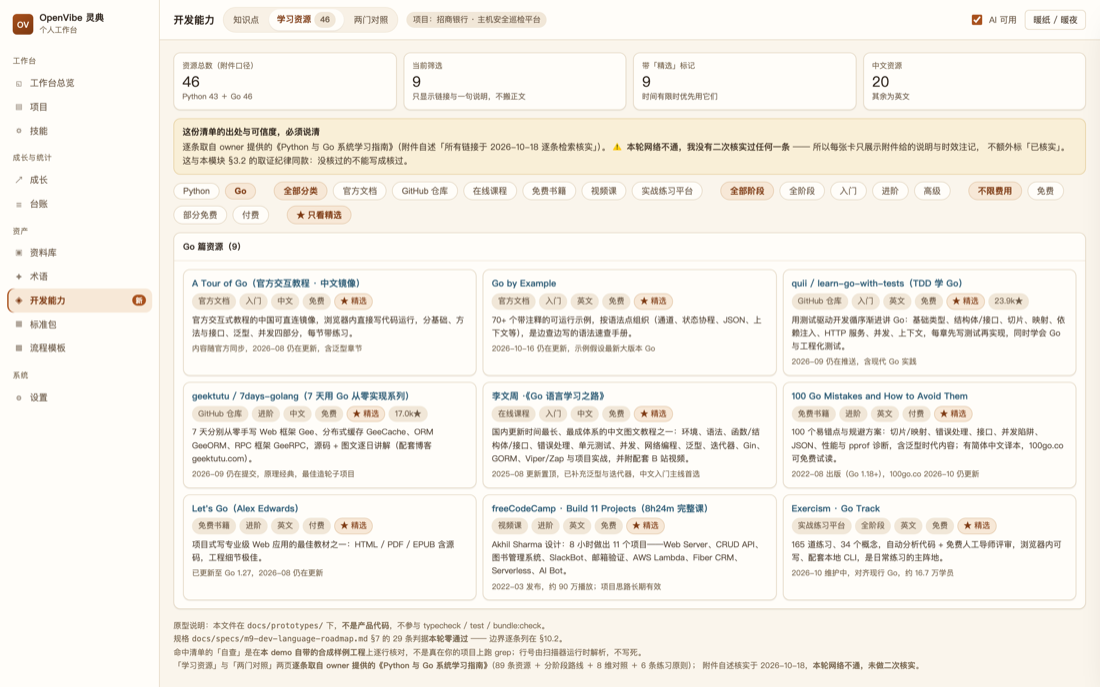
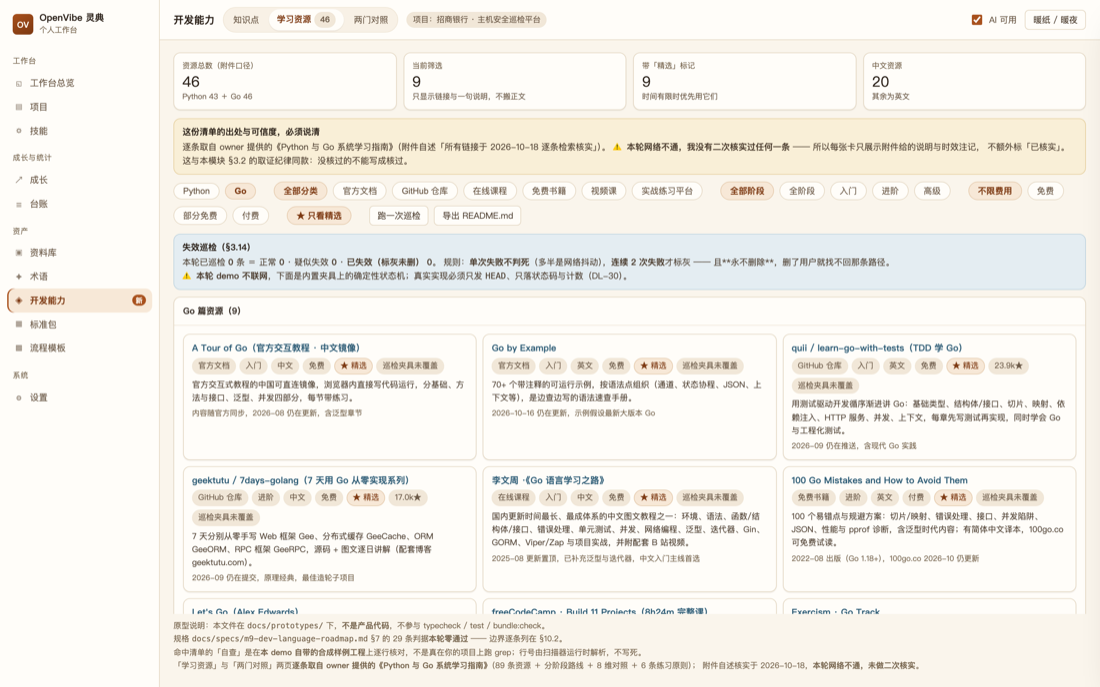
docs(M9): v1.1 采纳三条增强 · 失效巡检 / 资源↔知识点挂接 / 导出 README
规格（v1.0 → v1.1）：

- §3.14 增强⑥ **失效巡检**：「核实过一次」是快照不是结论。`lang_resources` 新增
  `last_status_code` / `consecutive_fails` / `alive` / `last_checked_at`；状态机写死 ——
  成功归零、单次失败只标「疑似」、**连续 2 次失败才标灰且永不删除**（删了用户就找不回路径）。
  巡检**只发 HEAD、只落状态码与计数、不抓正文**；低频手动触发，**不进启动流程**
  （启动时联网会把「打开一个本机工具」变成「等网络」）。
- §3.15 增强⑦ **资源↔知识点显式挂接**：新增第十三张表 `lang_topic_resources`，
  **只有「知识点 → 资源」一个方向** —— 资源反向认领会让 3323 条无序清单定义路线（§1.5 实测）。
  「要点级」条目必须至少有一条可点去处，否则等于让用户自己去搜。
- §3.16 增强⑧ **导出 README.md**：复用既有导出通道，只导链接不导正文；
  每行带可回查的资源号；零本机路径（它会被推到公开仓库）。
- DL-01 扩展范围（`lang_resources` 全表），新增 **DL-30~32**（判据 29 → **32 条**）。
- §9 新增两期 **P1b 资源层＋挂接 / P1c 失效巡检**（人日 20 → **25**）。
- §10.2 逐条登记这三项 demo **不能**证明什么（尤其：demo 不联网 ⇒ 不满足 DL-30）。

原型同步实现三件事，并全部当场可点：

- 详情页「去哪儿补这条」：36 个知识点逐条挂到清单里**真实存在**的资源名
- 资源页「跑一次巡检」：内置夹具上的确定性状态机，跑两轮对照「≥2 次才判死」
- 资源页「导出 README.md」：DL-32 四条自查内建

真机验证（裸 CDP，控制台 0 error / 0 exception）：

- DL-31：要点级条目缺去处 0 条；挂接名悬空 0 条（会挂到不存在的资源是最容易漏的一类）
- DL-30：连败条目 alive=false，单败后恢复的条目 fails 归零、**从未判死**；
  标灰后**池子条数不变（43 → 43）**
- DL-32：导出 89 条 == 清单 89 条、零绝对路径、零行缺资源号
- 降级自检 0 命中

过程中改掉三个**只有真跑才会暴露**的缺陷：

1. `livenessOf()` 每次返回临时对象 ⇒ 巡检计数改了但没人读得到，界面永远显示「未巡检」
2. `runSweep()` 只统计 `justDied` 却**从不把 alive 置 false** ⇒ fails 涨到 4 而界面显示「已失效 0 条」
3. 关闭态抽屉只靠 transform 移屏 ⇒ 文本仍在 DOM，降级自检数到了用户看不到的字
   （顺带修掉一个真 a11y 缺陷：不在场的对话框仍会被读屏读到，现已 aria-hidden + inert）

另：屏摄脚本改为一律显式设状态并在末尾校验指纹 —— 上一版靠「找某个按钮点一下」，
把四张本该不同的图拍成了逐字节相同。本轮 11 张屏摄指纹互不相同。

五闸：typecheck 0 · lint 0 · test 96 文件 / 1109 支全绿 · docs:check error 0 · head-typecheck rc=0

Changed region(s): [[0.1545, 0.3057, 0.9891, 0.917]]

diff --git a/docs/prototypes/开发能力-可交互Demo-20261018.html b/docs/prototypes/开发能力-可交互Demo-20261018.html
@@ -8,7 +8,7 @@
   M9「开发能力」交互原型 · 单文件零依赖 · 2026-10-18
 
   ⚠ 这是原型，不是产品代码：不在 apps/ packages/ 下，不参与 typecheck / test / bundle:check。
-     ⇒ specs/m9-dev-language-roadmap.md §7 的 29 条判据本轮零通过。
+     ⇒ specs/m9-dev-language-roadmap.md §7 的 32 条判据本轮零通过。
      边界逐条列在 §10.2。本文件自己有一条能当场自证的：降级自检按钮（§10.3 第 2 条）。
 
   视觉：内联复制 apps/web/src/index.css 的 29 支颜色 token × 双主题，不新增任何字面色阶。
@@ -459,15 +459,15 @@ textarea.ta {
     </div>
     </div><!-- /view-topics -->
 
-    <div id="view-res" class="view" hidden></div>
-    <div id="view-cmp" class="view" hidden></div>
+    <div id="view-res" class="view" data-catalog hidden></div>
+    <div id="view-cmp" class="view" data-catalog hidden></div>
   </div>
 
   <div class="foot" id="foot"></div>
 </main>
 
 <div class="mask" id="mask"></div>
-<div class="drawer" id="drawer" role="dialog" aria-label="源码解读">
+<div class="drawer" id="drawer" role="dialog" aria-label="源码解读" aria-hidden="true" inert>
   <div class="dh">
     <div class="r1">
       <h2>源码解读</h2>
@@ -1332,6 +1332,174 @@ const GUIDE_PRINCIPLES = [
   ["版本意识，不碰过时资料", "Python 一律 3.12 / 3.13，Go 一律 1.22+；任何只讲 Python 2 或 GOPATH 旧模式的资料直接弃用。"],
 ];
 
+
+/* ═══════════════════════════════════════════════════════════════════════
+   增强⑦ 知识点 → 资源（§3.15）。**只有这一个方向**：资源不反向认领知识点。
+   每条资源名都取自上方 GUIDE_RES 里真实存在的条目 —— 挂一个不存在的名字
+   在 demo 里看不出来，但那正是 DL-31 的判据要抓的东西，故下方 selfCheck 会核。
+   role: primary 主去处 / backup 备选 / practice 练习平台
+   ═══════════════════════════════════════════════════════════════════════ */
+const TOPIC_RES = {
+  'py-variable':       [['Python 官方教程（中文译本）','primary'],['Python for Everybody（py4e）','backup']],
+  'py-collection':     [['Python 官方教程（中文译本）','primary'],['TheAlgorithms / Python（算法实现库）','practice']],
+  'py-function':       [['廖雪峰 · Python 教程','primary'],["Google's Python Class",'backup']],
+  'py-module':         [['廖雪峰 · Python 教程','primary'],['Automate the Boring Stuff with Python（3rd Edition）','backup']],
+  'py-error':          [['Think Python（3rd Edition, 2024）','primary'],['Real Python','backup']],
+  'py-datamodel':      [['Fluent Python（2nd Edition, 2022）','primary'],['Think Python（3rd Edition, 2024）','backup']],
+  'py-polymorphism':   [['Fluent Python（2nd Edition, 2022）','primary'],['Real Python','backup']],
+  'py-concurrency':    [['Fluent Python（2nd Edition, 2022）','primary'],['Real Python','backup']],
+  'py-decorator':      [['廖雪峰 · Python 教程','primary'],['Fluent Python（2nd Edition, 2022）','backup']],
+  'py-generator':      [['Fluent Python（2nd Edition, 2022）','primary'],['Real Python','backup']],
+  'py-context':        [['Think Python（3rd Edition, 2024）','primary'],['Real Python','backup']],
+  'py-typehint':       [['The Python Language Reference（语言参考）','primary'],["What's New in Python 3.13（版本更新说明）",'backup']],
+  'py-comprehension':  [['廖雪峰 · Python 教程','primary'],['The Python Tutorial（官方教程）','backup']],
+  'py-fstring':        [['菜鸟教程 · Python3','primary'],['Python for Everybody（py4e）','backup']],
+  'py-dataclass':      [['Fluent Python（2nd Edition, 2022）','primary'],['The Python Language Reference（语言参考）','backup']],
+  'py-excchain':       [['Think Python（3rd Edition, 2024）','primary'],['Real Python','backup']],
+  'py-web':            [['FastAPI 官方教程','primary'],['Django 官方教程（投票应用 · 7 部分）','backup']],
+  'py-pack':           [['Python Crash Course（3rd Edition, 2022）','primary'],['Automate the Boring Stuff with Python（3rd Edition）','backup']],
+
+  'go-variable':       [['A Tour of Go（官方交互教程 · 中文镜像）','primary'],['李文周 ·《Go 语言学习之路》','backup']],
+  'go-collection':     [['Go by Example','primary'],['The Go Programming Language（英文原版，gopl.io）','backup']],
+  'go-function':       [['A Tour of Go（官方交互教程 · 中文镜像）','primary'],['Go by Example','backup']],
+  'go-module':         [['Go Modules Reference（模块参考）','primary'],['The Go Programming Language（英文原版，gopl.io）','backup']],
+  'go-error':          [['Effective Go','primary'],['100 Go Mistakes and How to Avoid Them','backup']],
+  'go-datamodel':      [['The Go Programming Language（英文原版，gopl.io）','primary'],['Go: Under the Hood（golang.design）','backup']],
+  'go-polymorphism':   [['Effective Go','primary'],['inancgumus / effective-go（现代 Go 风格指南）','backup']],
+  'go-concurrency':    [['Concurrency in Go','primary'],['Go by Example','backup']],
+  'go-defer':          [['A Tour of Go（官方交互教程 · 中文镜像）','primary'],['Go by Example','backup']],
+  'go-goroutine':      [['Concurrency in Go','primary'],["Let's Go（Alex Edwards）",'backup']],
+  'go-slice':          [['Go by Example','primary'],['Go: Under the Hood（golang.design）','backup']],
+  'go-ifacezero':      [['Effective Go','primary'],['inancgumus / effective-go（现代 Go 风格指南）','backup']],
+  'go-structtag':      [['Go by Example','primary'],['pkg.go.dev（标准库与包文档）','backup']],
+  'go-errorwrap':      [['Effective Go','primary'],['100 Go Mistakes and How to Avoid Them','backup']],
+  'go-generic':        [['A Tour of Go（官方交互教程 · 中文镜像）','primary'],['Go Modules Reference（模块参考）','backup']],
+  'go-wg':             [['Concurrency in Go','primary'],['Gophercises（20 个动手小项目）','practice']],
+  'go-http':           [["Let's Go（Alex Edwards）",'primary'],['astaxie / build-web-application-with-golang（Go Web 编程开源书）','backup']],
+  'go-build':          [['Go Modules Reference（模块参考）','primary'],['Go 官方文档中心（中国镜像）','backup']],
+};
+const RES_ROLE_LABEL = { primary: '主去处', backup: '备选', practice: '练习平台' };
+
+function findRes(name) {
+  for (const lk of ['py', 'go']) {
+    const hit = (GUIDE_RES[lk] || []).find(r => r.n === name);
+    if (hit) return hit;
+  }
+  return null;
+}
+/** DL-31：要点级（content_level='point'）的条目必须至少挂一条资源。
+ *  full 级挂 0 条是**允许**的（三段已写满，不需要去处）⇒ 判据必须按 point 过滤。 */
+function pointTopicsWithoutRes(lang) {
+  return langTopics(lang).filter(t => t.level !== 'full' && !(TOPIC_RES[t.id] || []).length).map(t => t.id);
+}
+
+/* ═══════════════════════════════════════════════════════════════════════
+   增强⑥ 失效巡检（§3.14）。⚠ demo **不联网**，下面 probe 序列是内置夹具，
+   不是真实 HTTP 探测结果 —— 真实实现必须用 HEAD（DL-30 的三条之一）。
+   probe[i] = 第 i 次巡检的状态码；跑完末尾值后保持不变。
+   ═══════════════════════════════════════════════════════════════════════ */
+const LIVENESS_FIXTURE = {
+  'wistbean / learn_python3_spider（中文爬虫教程）': { probe: [404, 404, 404] },  // 连败 ⇒ 标灰
+  'Go: Under the Hood（golang.design）':            { probe: [503, 503, 503] },  // 连败 ⇒ 标灰
+  '莫烦 Python · Python 基础':                        { probe: [500, 200, 200] },  // 单败后恢复 ⇒ 永远不判死
+};
+const LIVE = {};   // name -> {round, code, fails, alive, checkedAt}
+function livenessOf(r) {
+  if (LIVE[r.n]) return LIVE[r.n];
+  // ⚠ 必须**存进 LIVE 再返回**：早先直接返回一个临时对象，于是 runSweep 改的是
+  // 一个谁也读不到的副本，巡检跑完计数全是 0 —— 而界面照常显示「未巡检」，看着完全正常。
+  const px = (LIVENESS_FIXTURE[r.n] || {}).probe || null;
+  LIVE[r.n] = { round: 0, code: null, fails: 0, alive: true, checkedAt: null, fixture: !!px };
+  return LIVE[r.n];
+}
+/** 跑一轮巡检。状态机（§3.14 写死）：成功⇒归零；失败累加；连续失败 ≥2 才判死。 */
+function runSweep() {
+  const out = { probed: 0, recovered: 0, justDied: 0 };
+  for (const r of resPool()) {
+    const px = (LIVENESS_FIXTURE[r.n] || {}).probe;
+    if (!px) continue;                     // 夹具里没列的条目：本次「探不到」，保持原状
+    const st = livenessOf(r);
+    const round = st.round;
+    const code = px[Math.min(round, px.length - 1)];
+    st.round = round + 1;
+    st.code = code;
+    st.checkedAt = '10-19';
+    if (code >= 200 && code < 400) {
+      st.fails = 0; st.alive = true;
+      if (round > 0) out.recovered++;
+    } else {
+      st.fails++;
+      // ⚠ 这里必须**真的把 alive 翻成 false** —— 早先只写了 `if (st.fails < 2) st.alive = true`，
+      // 于是 fails 一路涨到 4 而 alive 永远是 true，界面显示「已失效 0 条」却毫无异常。
+      // 那支「变异腿」本该抓住它，但它是界面里的活代码，只能靠真跑状态机抓 —— 这也是它必须能在 demo 里点的原因。
+      const wasAlive = st.alive;
+      st.alive = st.fails < 2;
+      if (wasAlive && !st.alive) out.justDied++;
+    }
+    out.probed++;
+  }
+  return out;
+}
+function deadCount() { return resPool().filter(r => !livenessOf(r).alive).length; }
+function suspectCount() { return resPool().filter(r => livenessOf(r).fails === 1 && livenessOf(r).alive).length; }
+
+/* ═══════════════════════════════════════════════════════════════════════
+   增强⑧ 导出 README.md（§3.16）。三条纪律：只导链接不导正文 · 每行可溯源 ·
+   零本机路径（因为它会被推到公开仓库）。
+   ═══════════════════════════════════════════════════════════════════════ */
+function exportReadme() {
+  const idOf = (langKey, r) => `${langKey === 'py' ? 'PY' : 'GO'}-${GUIDE_RES[langKey].indexOf(r) + 1}`;
+  let md = `# 学习地图 · Python / Go\n\n`
+    + `> 由 OpenVibe「开发能力」导出 · 快照日期 2026-10-19\n`
+    + `> **只含链接与标签，不含任何教程正文**（版权纪律：正文一律不入仓）。\n`
+    + `> 每条前缀 \`[PY-13]\` / \`[GO-24]\` 是可回查的资源号，对应本机 \`lang_resources.id\`。\n`
+    + `> 巡检栏「疑似 / 已失效」按 §3.14 状态机标注，**标灰但未删除** —— 路径留着才找得回。\n\n`;
+  for (const lk of ['py', 'go']) {
+    const pool = GUIDE_RES[lk];
+    md += `## ${lk === 'py' ? 'Python' : 'Go'}（${pool.length} 条）\n\n`;
+    for (const c of Object.keys(GUIDE_RES.cat)) {
+      const items = pool.filter(r => r.cat === c);
+      if (!items.length) continue;
+      md += `### ${GUIDE_RES.cat[c]}（${items.length}）\n\n`;
+      for (const r of items) {
+        const st = livenessOf(r);
+        const tags = [GUIDE_RES.st[r.s], r.l === 'zh' ? '中文' : '英文', GUIDE_RES.cost[r.c] || r.c];
+        if (r.fav) tags.unshift('★精选');
+        if (r.star) tags.push(r.star);
+        tags.push(r.phase_id === undefined ? '' : String(r.phase_id));
+        const live = !st.checkedAt ? '未巡检' : st.alive ? (st.fails ? '疑似失效' : `正常 ${st.code}`) : `已失效 ${st.code}`;
+        md += `- [${idOf(lk, r)}] [${r.n}](${r.u}) \`${tags.filter(Boolean).join('` `')}\` · 巡检：${live}\n`;
+      }
+      md += `\n`;
+    }
+  }
+  return md;
+}
+/** DL-32：导出物的四条 —— 条数一致 · 零绝对路径 · 每行可溯源 · 结构可机判 */
+function checkReadme(md) {
+  const lines = md.split('\n').filter(l => l.startsWith('- ['));
+  const poolN = GUIDE_RES.py.length + GUIDE_RES.go.length;
+  const noId = lines.filter(l => !/^- \[[A-Z]{2}-\d+\]/.test(l));
+  const abs = md.match(/\/Users\/|\/home\/|[A-Za-z]:\\/g) || [];
+  return { lines: lines.length, poolN, countOk: lines.length === poolN, noId: noId.length, abs: abs.length };
+}
+/** 导出结果的展示卡（四条自查 + 原文），渲染函数每次重画都靠它，故单独抽出 */
+function readmeCard(md) {
+  const ck = checkReadme(md);
+  const flag = (ok, txt) => `<span class="${ok ? 'okflag' : 'badflag'}">${txt}</span>`;
+  return `<div class="card" style="margin-bottom:10px"><div class="card-h">导出结果 · README.md
+    <span class="spacer"></span><button class="b sm" id="copyMd">复制</button></div>
+    <div class="card-b">
+      <div class="note" style="margin-bottom:8px"><b>DL-32 四条自查</b>
+        ① 条数：导出 ${ck.lines} 条 ＝ 清单 ${ck.poolN} 条 → ${flag(ck.countOk, ck.countOk ? '一致' : '不一致')}<br>
+        ② 零本机路径：命中 ${ck.abs} 处 → ${flag(ck.abs === 0, ck.abs === 0 ? '0 处' : ck.abs + ' 处')}<br>
+        ③ 每行可溯源：缺资源号的行 ${ck.noId} 条 → ${flag(ck.noId === 0, ck.noId === 0 ? '0 条' : ck.noId + ' 条')}<br>
+        ④ 只含链接与标签：${flag(true, '正文一律不导出')}（§3.2 版权纪律）
+      </div>
+      <textarea class="ta" id="mdBox" spellcheck="false" style="min-height:230px">${esc(md)}</textarea>
+    </div></div>`;
+}
+
 /* ═══════════════════════════════════════════════════════════════════════
    五 · 运行时状态
    ═══════════════════════════════════════════════════════════════════════ */
@@ -1339,6 +1507,8 @@ const S = {
   lang: 'python',
   view: 'topics',
   heuristic: false,      // Go 是否模拟「未检测到工具链」
+  sweepNote: null,       // 巡检两轮的结果说明（存状态而非存 DOM，重渲染后仍在）
+  readmeMd: null,        // 导出的 README.md 原文
   ai: true,
   stage: 0,
   topic: null,
@@ -1504,7 +1674,31 @@ function renderDetail() {
       </div></div>`;
   }
 
-  html += `<div class="sec"><h4>延伸阅读（只存链接，不搬正文）</h4>
+  html += `<div class="sec"><h4>去哪儿补这条（知识点 → 资源，单向挂接）</h4>
+      ${(() => {
+        const links = (TOPIC_RES[t.id] || []).map(([n, role]) => ({ r: findRes(n), role }))
+          .filter(x => x.r);
+        if (!links.length) {
+          return t.level === 'full'
+            ? `<div style="font-size:12.5px;color:var(--color-ink-muted)">本条三段已写满，没有指定去处（full 级挂 0 条是允许的）。</div>`
+            : `<div class="note danger"><b>本条是「要点级」却没有去处</b>DL-31 要求它必须至少有一条可点的出处 —— 一条都没有等于让用户自己去搜。</div>`;
+        }
+        return `<table class="mini"><thead><tr><th style="width:74px">角色</th><th>资源</th><th style="width:96px">巡检</th></tr></thead><tbody>
+          ${links.map(x => {
+            const st = livenessOf(x.r);
+            const live = !st.checkedAt ? '<span class="tag">未巡检</span>'
+              : st.alive ? (st.fails ? chip('warn', '疑似失效') : chip('ok', '正常 ' + st.code))
+                         : chip('danger', '已失效');
+            return `<tr><td><span class="tag">${esc(RES_ROLE_LABEL[x.role] || x.role)}</span></td>
+              <td><a href="${esc(x.r.u)}" target="_blank" rel="noreferrer" style="color:var(--color-info)">${esc(x.r.n)}</a>
+                  <div style="font-size:11px;color:var(--color-ink-faint)">${esc(GUIDE_RES.cat[x.r.cat])} · ${esc(GUIDE_RES.st[x.r.s])} · 费率${esc(GUIDE_RES.cost[x.r.c] || x.r.c)}</div></td>
+              <td>${live}</td></tr>`;
+          }).join('')}
+        </tbody></table>`;
+      })()}
+    </div>
+
+    <div class="sec"><h4>延伸阅读（只存链接，不搬正文）</h4>
       <div><a href="${t.ref.u}" target="_blank" rel="noreferrer" style="color:var(--color-info)">${esc(t.ref.t)}</a>
       <span class="tag" style="margin-left:6px">取证日 ${t.ref.checked || CHECKED}</span></div></div>`;
 
@@ -1559,7 +1753,7 @@ function renderSources() {
 function renderFoot() {
   document.getElementById('foot').innerHTML = `
     原型说明：本文件在 <code>docs/prototypes/</code> 下，<b>不是产品代码</b>，不参与 typecheck / test / bundle:check。<br>
-    规格 <code>docs/specs/m9-dev-language-roadmap.md</code> §7 的 29 条判据<b>本轮零通过</b> —— 边界逐条列在 §10.2。<br>
+    规格 <code>docs/specs/m9-dev-language-roadmap.md</code> §7 的 32 条判据<b>本轮零通过</b> —— 边界逐条列在 §10.2。<br>
     命中清单的「自查」是在<b>本 demo 自带的合成样例工程</b>上逐行核对，不是真在你的项目上跑 grep；行号由扫描器运行时解析，不写死。<br>
     「学习资源」与「两门对照」两页<b>逐条取自 owner 提供的《Python 与 Go 系统学习指南》</b>（89 条资源 ＋ 分阶段路线 ＋ 8 维对照 ＋ 6 条练习原则）；
     附件自述核实于 2026-10-18，<b>本轮网络不通，未做二次核实</b>。`;
@@ -1618,7 +1812,20 @@ function renderRes() {
       ${['free', '部分免费', 'paid'].map(c => chipf('cost', c, GUIDE_RES.cost[c] || c, RF.cost === c)).join('')}
       <span style="width:10px"></span>
       ${chipf('fav', '1', '★ 只看精选', RF.fav)}
+      <span style="width:10px"></span>
+      <button class="b" id="doSweep" ${S.lang === 'python' ? '' : ''}>跑一次巡检</button>
+      <button class="b" id="doReadme">导出 README.md</button>
     </div>
+
+    <div class="note ${deadCount() ? 'warn' : ''}" style="margin-bottom:10px"><b>失效巡检（§3.14）</b>
+      本轮已巡检 <b>${resPool().filter(r => livenessOf(r).checkedAt).length}</b> 条 ＝ 正常 <b>${resPool().filter(r => livenessOf(r).checkedAt && livenessOf(r).alive && !livenessOf(r).fails).length}</b> ·
+      疑似失效 <b>${suspectCount()}</b> · <b>已失效（标灰未删）</b> <b>${deadCount()}</b>。
+      规则：<b>单次失败不判死</b>（多半是网络抖动），<b>连续 2 次失败</b>才标灰 —— 且**永不删除**，删了用户就找不回那条路径。<br>
+      ⚠ <b>本轮 demo 不联网</b>，下面是内置夹具上的确定性状态机；真实实现必须只发 <code>HEAD</code>、只落状态码与计数（DL-30）。
+    </div>
+
+    <div id="sweepOut">${S.sweepNote || ''}</div>
+    <div id="readmeOut">${S.readmeMd ? readmeCard(S.readmeMd) : ''}</div>
 
     <div class="card"><div class="card-h">${esc(RF.lang === 'python' ? 'Python' : 'Go')} 篇资源（${list.length}）</div>
       <div class="card-b"><div class="resgrid">`;
@@ -1626,7 +1833,12 @@ function renderRes() {
     html += `<div class="note">当前筛选无结果。</div>`;
   } else {
     for (const r of list) {
-      html += `<div class="card rescard">
+      const st = livenessOf(r);
+      const liveTag = !st.fixture ? '<span class="tag">巡检夹具未覆盖</span>'
+        : !st.checkedAt ? '<span class="tag">未巡检</span>'
+        : st.alive ? (st.fails ? chip('warn', '疑似失效 ' + st.code) : chip('ok', '正常 ' + st.code))
+        : chip('danger', '已失效 ' + st.code);
+      html += `<div class="card rescard" ${st.alive ? '' : 'style="opacity:.55"'}>
         <div class="n"><a href="${esc(r.u)}" target="_blank" rel="noreferrer">${esc(r.n)}</a></div>
         <div class="meta">
           <span class="tag">${esc(GUIDE_RES.cat[r.cat])}</span>
@@ -1635,9 +1847,10 @@ function renderRes() {
           <span class="tag">${esc(GUIDE_RES.cost[r.c] || r.c)}</span>
           ${r.fav ? chip('acc', '★ 精选') : ''}
           ${r.star ? `<span class="tag">${esc(r.star)}</span>` : ''}
+          ${liveTag}
         </div>
         <div class="d">${esc(r.d)}</div>
-        <div class="f">${esc(r.f)}</div>
+        <div class="f">${esc(r.f)}${st.checkedAt ? ` · 巡检日 2026-10-${st.checkedAt}` : ''}${st.alive ? '' : ' · <b>已失效但保留（路径留着才找得回）</b>'}</div>
       </div>`;
     }
   }
@@ -1666,6 +1879,32 @@ function renderRes() {
     if (RF.lang !== S.lang) { /* 资源页的语言筛选独立于知识点页，互不强制同步 */ }
   });
   document.getElementById('resCount').textContent = resPool().length;
+
+  const sw = document.getElementById('doSweep');
+  if (sw) sw.onclick = () => {
+    const r1 = runSweep(), a1 = { dead: deadCount(), suspect: suspectCount() };
+    const r2 = runSweep(), a2 = { dead: deadCount(), suspect: suspectCount() };
+    S.sweepNote = `
+      <div class="note" style="margin-bottom:10px"><b>巡检跑了两轮（专门对照「≥2 次才判死」这条规则）</b>
+        第 1 轮：探测 ${r1.probed} 条 → 疑似失效 <b>${a1.suspect}</b> · 已失效 <b>${a1.dead}</b>
+        ${a1.dead === 0 ? '（<b>对：单次失败不判死</b>）' : '（<b>错：单次失败就判死了</b>）'}<br>
+        第 2 轮：探测 ${r2.probed} 条 → 疑似失效 <b>${a2.suspect}</b> · 已失效 <b>${a2.dead}</b>
+        ${a2.dead > a1.dead ? '（<b>本轮才有条目被判死</b> —— 连败两次）' : ''}
+        ${r2.recovered > 0 ? `<br>另有 <b>${r2.recovered}</b> 条从失败中恢复 ⇒ <b>fails 归零</b>，规则确实不是单向判死。` : ''}
+      </div>`;
+    renderRes();   // 状态存在 S.sweepNote 里，重渲染后仍在
+  };
+
+  const rm = document.getElementById('doReadme');
+  if (rm) rm.onclick = () => { S.readmeMd = exportReadme(); renderRes(); };
+
+  const c = document.getElementById('copyMd');
+  if (c) c.onclick = () => {
+    const t = document.getElementById('mdBox');
+    if (!t) return;
+    t.select();
+    try { document.execCommand('copy'); } catch (e) {}
+  };
 }
 
 function renderCmp() {
@@ -1933,10 +2172,15 @@ function doAsk() {
 /* ═══════════════════════════════════════════════════════════════════════
    八 · 降级自检（全站不得出现 AI 字样 —— DL-08 的界面侧形态）
    ═══════════════════════════════════════════════════════════════════════ */
-/* 降级自检：AI 关闭后，**内容区**不得出现任何 AI 字样（§5.2 的界面侧形态）。
-   排除项两处，都必须写出来，否则这个数会被当成「全站为 0」：
+/* 降级自检：AI 关闭后，**判定与解读类内容**不得出现任何 AI 字样（§5.2 的界面侧形态）。
+   排除项三处，都必须写出来，否则这个数会被当成「全站为 0」：
      ① SCRIPT / STYLE 的文本不是可见内容；
-     ② data-ai-chrome = 那个开关自己（「AI 可用」是状态指示，不是推荐内容）。 */
+     ② data-ai-chrome = 那个开关自己（「AI 可用」是状态指示，不是推荐内容）；
+     ③ data-catalog = 资源清单与对照表两页 —— 它们的文字是**外部资源的原标题逐字引用**
+        （如「Python+AI 零基础入门」这类课程名），不构成「把基线结果包装成生成式结果」；
+     ④ textarea 里的内容是用户可编辑的原文（导出的清单），不是界面对用户的断言；
+        aria-hidden/inert 的区域（关闭态的抽屉）—— 用户看不到，读屏也不该读到。
+     ⚠ 后两条是刻意排除的：判据断的是**归因声明**，不是「页面上有没有这两个字母」。 */
 function degradeCheck() {
   const hits = [];
   const walker = document.createTreeWalker(document.body, NodeFilter.SHOW_TEXT);
@@ -1944,7 +2188,7 @@ function degradeCheck() {
   while ((n = walker.nextNode())) {
     const p = n.parentElement;
     if (!p) continue;
-    if (p.closest('script, style, [data-ai-chrome], #checkOut, #askOut')) continue;
+    if (p.closest('script, style, textarea, [data-ai-chrome], [data-catalog], [aria-hidden="true"], #checkOut, #askOut, #sweepOut')) continue;
     const v = n.nodeValue || '';
     if (/AI/.test(v) && v.trim()) hits.push(v.trim().slice(0, 40));
   }
@@ -1970,11 +2214,17 @@ document.querySelectorAll('.pill[data-lang]').forEach(b => b.onclick = () => {
 document.getElementById('openSrc').onclick = () => {
   document.getElementById('drawer').classList.add('on');
   document.getElementById('mask').classList.add('on');
+  // 关闭态只靠 transform 移出屏幕 —— 文本仍在 DOM 里，读屏与文本遍历都还会碰到它。
+  // 这是真的 a11y 缺陷（不在场的对话框仍被朗读），顺带也让「降级自检」数到了用户看不到的字。
+  document.getElementById('drawer').setAttribute('aria-hidden', 'false');
+  document.getElementById('drawer').inert = false;
   renderDrawer();
 };
 document.getElementById('closeSrc').onclick = () => {
   document.getElementById('drawer').classList.remove('on');
   document.getElementById('mask').classList.remove('on');
+  document.getElementById('drawer').setAttribute('aria-hidden', 'true');
+  document.getElementById('drawer').inert = true;
 };
 document.getElementById('mask').onclick = () => document.getElementById('closeSrc').click();
 document.getElementById('themeBtn').onclick = () => {
